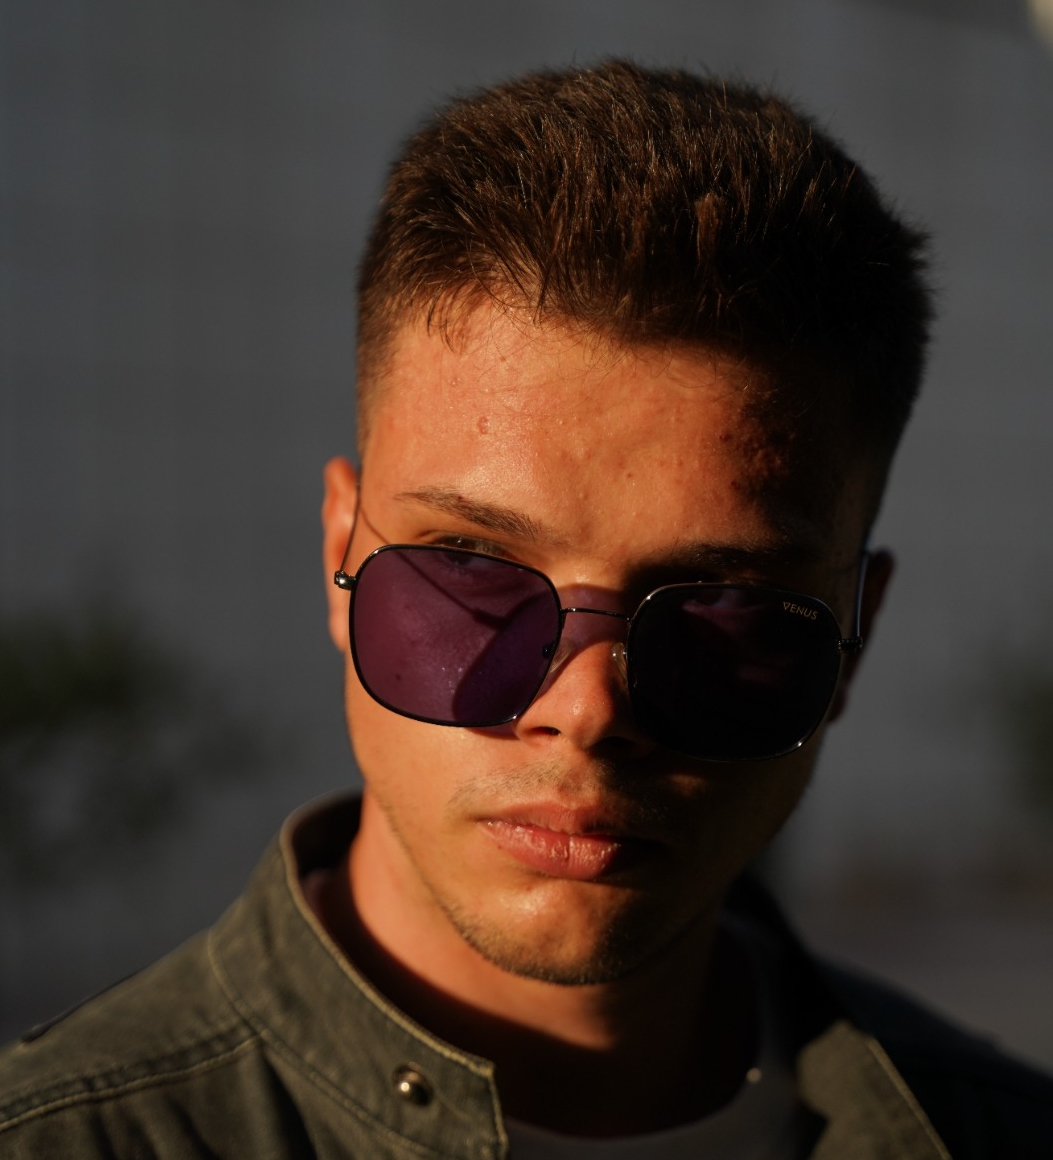
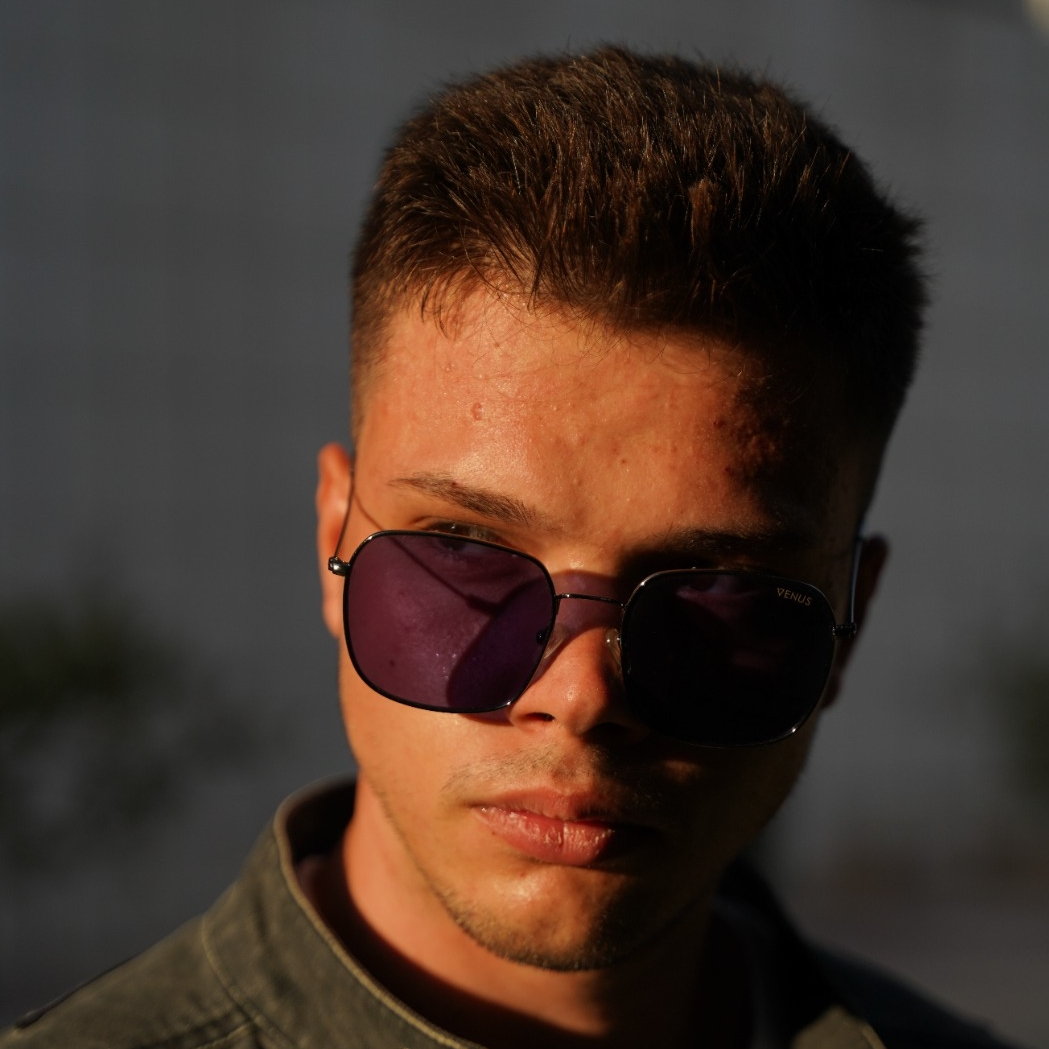
foto miguel arreglada

diff --git a/index.html b/index.html
@@ -75,7 +75,8 @@
                     <div class="col-md-6 col-lg-4 mb-5">
                         <div class="portfolio-item mx-auto" data-bs-toggle="modal" data-bs-target="#portfolioModal1">
                             <div class="portfolio-item-caption d-flex align-items-center justify-content-center h-100 w-100">
-                                <div class="portfolio-item-caption-content text-center text-white">A Way to Heaven</div>
+                                <div class="portfolio-item-caption-content text-center text-white">A Way to Heaven  </div>
+                                <a class="btn btn-xl btn-outline-light" href="https://locked-pocket-studio.itch.io/a-way-to-heaven"><i class="fab fa-itch-io"></i></a>
                             </div>
                             <img class="img-fluid" src="https://github.com/LockedPocketStudio/WEB_arte/blob/main/logo/Logo_juego.jpeg?raw=true" alt="..." width="500px" height="500px" />
                         </div>
@@ -123,7 +124,7 @@
                             <div class="portfolio-item-caption d-flex align-items-center justify-content-center h-100 w-100">
                                 <div class="portfolio-item-caption-content text-center text-white">LAURITA<i class="fas fa-plus fa-3x"></i></div>
                             </div>
-                            <img class="img-fluid" src="https://github.com/LockedPocketStudio/lockedpocketstudio.github.io/blob/main/assets/img/team/foto_laurita.jpg?raw=true" alt="..." width="500px" height="500px" />
+                            <img class="img-fluid" src="https://github.com/LockedPocketStudio/lockedpocketstudio.github.io/blob/main/assets/img/team/foto_laurita.jpg?raw=true" alt="..." width="350px" height="350px" />
                         </div>
                     </div>
 		<!-- MATEO-->
@@ -132,7 +133,7 @@
                             <div class="portfolio-item-caption d-flex align-items-center justify-content-center h-100 w-100">
                                 <div class="portfolio-item-caption-content text-center text-white">MATEO<i class="fas fa-plus fa-3x"></i></div>
                             </div>
-                            <img class="img-fluid" src="https://github.com/LockedPocketStudio/lockedpocketstudio.github.io/blob/main/assets/img/team/fotoMateoFinal.png?raw=true" alt="..." width="500px" height="500px" />
+                            <img class="img-fluid" src="https://github.com/LockedPocketStudio/lockedpocketstudio.github.io/blob/main/assets/img/team/fotoMateoFinal.jpg?raw=true" alt="..." width="350px" height="350px" />
                         </div>
                     </div>
 		<!-- MIGUEL-->
@@ -141,7 +142,7 @@
                             <div class="portfolio-item-caption d-flex align-items-center justify-content-center h-100 w-100">
                                 <div class="portfolio-item-caption-content text-center text-white">MIGUEL<i class="fas fa-plus fa-3x"></i></div>
                             </div>
-                            <img class="img-fluid" src="https://github.com/LockedPocketStudio/lockedpocketstudio.github.io/blob/main/assets/img/team/fotoMiguelFinal.png?raw=true" alt="..." width="500px" height="500px" />
+                            <img class="img-fluid" src="https://github.com/LockedPocketStudio/lockedpocketstudio.github.io/blob/main/assets/img/team/fotoMiguelFinal.jpg?raw=true" alt="..." width="350px" height="350px" />
                         </div>
                     </div>
 		<!-- PEDRO-->
@@ -150,7 +151,7 @@
                             <div class="portfolio-item-caption d-flex align-items-center justify-content-center h-100 w-100">
                                 <div class="portfolio-item-caption-content text-center text-white">PEDRO<i class="fas fa-plus fa-3x"></i></div>
                             </div>
-                            <img class="img-fluid" src="https://github.com/LockedPocketStudio/WEB_arte/blob/main/img_PruebasPortfolio.png?raw=true" alt="..." width="500px" height="500px" />
+                            <img class="img-fluid" src="https://github.com/LockedPocketStudio/lockedpocketstudio.github.io/blob/main/assets/img/team/fotoPedroFinal.jpg?raw=true" alt="..." width="350px" height="350px" />
                         </div>
                     </div>
 		<!-- LUCÍA-->
@@ -159,7 +160,7 @@
                             <div class="portfolio-item-caption d-flex align-items-center justify-content-center h-100 w-100">
                                 <div class="portfolio-item-caption-content text-center text-white">LUCÍA<i class="fas fa-plus fa-3x"></i></div>
                             </div>
-                            <img class="img-fluid" src="https://github.com/LockedPocketStudio/lockedpocketstudio.github.io/blob/main/assets/img/team/fotoLuciaFinal.png?raw=true" alt="..." width="400px" height="400px" />
+                            <img class="img-fluid" src="https://github.com/LockedPocketStudio/lockedpocketstudio.github.io/blob/main/assets/img/team/fotoLuciaFinal.jpg?raw=true" alt="..." width="350px" height="350px" />
                         </div>
                     </div>
                 </div>
@@ -193,199 +194,6 @@
         <!-- Copyright Section-->
         <div class="copyright py-4 text-center text-white">
             <div class="container"><small>Copyright &copy; Locked Pocket Studio 2022</small></div>
-        </div>
-        <!-- Portfolio Modals-->
-        <!-- Portfolio Modal 1-->
-        <div class="portfolio-modal modal fade" id="portfolioModal1" tabindex="-1" aria-labelledby="portfolioModal1" aria-hidden="true">
-            <div class="modal-dialog modal-xl">
-                <div class="modal-content">
-                    <div class="modal-header border-0"><button class="btn-close" type="button" data-bs-dismiss="modal" aria-label="Close"></button></div>
-                    <div class="modal-body text-center pb-5">
-                        <div class="container">
-                            <div class="row justify-content-center">
-                                <div class="col-lg-8">
-                                    <!-- Portfolio Modal - Title-->
-                                    <h2 class="portfolio-modal-title text-secondary text-uppercase mb-0">Log Cabin</h2>
-                                    <!-- Icon Divider-->
-                                    <div class="divider-custom">
-                                        <div class="divider-custom-line"></div>
-                                        <div class="divider-custom-icon"><i class="fas fa-star"></i></div>
-                                        <div class="divider-custom-line"></div>
-                                    </div>
-                                    <!-- Portfolio Modal - Image-->
-                                    <img class="img-fluid rounded mb-5" src="assets/img/portfolio/cabin.png" alt="..." />
-                                    <!-- Portfolio Modal - Text-->
-                                    <p class="mb-4">Lorem ipsum dolor sit amet, consectetur adipisicing elit. Mollitia neque assumenda ipsam nihil, molestias magnam, recusandae quos quis inventore quisquam velit asperiores, vitae? Reprehenderit soluta, eos quod consequuntur itaque. Nam.</p>
-                                    <button class="btn btn-primary" data-bs-dismiss="modal">
-                                        <i class="fas fa-xmark fa-fw"></i>
-                                        Close Window
-                                    </button>
-                                </div>
-                            </div>
-                        </div>
-                    </div>
-                </div>
-            </div>
-        </div>
-        <!-- Portfolio Modal 2-->
-        <div class="portfolio-modal modal fade" id="portfolioModal2" tabindex="-1" aria-labelledby="portfolioModal2" aria-hidden="true">
-            <div class="modal-dialog modal-xl">
-                <div class="modal-content">
-                    <div class="modal-header border-0"><button class="btn-close" type="button" data-bs-dismiss="modal" aria-label="Close"></button></div>
-                    <div class="modal-body text-center pb-5">
-                        <div class="container">
-                            <div class="row justify-content-center">
-                                <div class="col-lg-8">
-                                    <!-- Portfolio Modal - Title-->
-                                    <h2 class="portfolio-modal-title text-secondary text-uppercase mb-0">Tasty Cake</h2>
-                                    <!-- Icon Divider-->
-                                    <div class="divider-custom">
-                                        <div class="divider-custom-line"></div>
-                                        <div class="divider-custom-icon"><i class="fas fa-star"></i></div>
-                                        <div class="divider-custom-line"></div>
-                                    </div>
-                                    <!-- Portfolio Modal - Image-->
-                                    <img class="img-fluid rounded mb-5" src="assets/img/portfolio/cake.png" alt="..." />
-                                    <!-- Portfolio Modal - Text-->
-                                    <p class="mb-4">Lorem ipsum dolor sit amet, consectetur adipisicing elit. Mollitia neque assumenda ipsam nihil, molestias magnam, recusandae quos quis inventore quisquam velit asperiores, vitae? Reprehenderit soluta, eos quod consequuntur itaque. Nam.</p>
-                                    <button class="btn btn-primary" data-bs-dismiss="modal">
-                                        <i class="fas fa-xmark fa-fw"></i>
-                                        Close Window
-                                    </button>
-                                </div>
-                            </div>
-                        </div>
-                    </div>
-                </div>
-            </div>
-        </div>
-        <!-- Portfolio Modal 3-->
-        <div class="portfolio-modal modal fade" id="portfolioModal3" tabindex="-1" aria-labelledby="portfolioModal3" aria-hidden="true">
-            <div class="modal-dialog modal-xl">
-                <div class="modal-content">
-                    <div class="modal-header border-0"><button class="btn-close" type="button" data-bs-dismiss="modal" aria-label="Close"></button></div>
-                    <div class="modal-body text-center pb-5">
-                        <div class="container">
-                            <div class="row justify-content-center">
-                                <div class="col-lg-8">
-                                    <!-- Portfolio Modal - Title-->
-                                    <h2 class="portfolio-modal-title text-secondary text-uppercase mb-0">Circus Tent</h2>
-                                    <!-- Icon Divider-->
-                                    <div class="divider-custom">
-                                        <div class="divider-custom-line"></div>
-                                        <div class="divider-custom-icon"><i class="fas fa-star"></i></div>
-                                        <div class="divider-custom-line"></div>
-                                    </div>
-                                    <!-- Portfolio Modal - Image-->
-                                    <img class="img-fluid rounded mb-5" src="assets/img/portfolio/circus.png" alt="..." />
-                                    <!-- Portfolio Modal - Text-->
-                                    <p class="mb-4">Lorem ipsum dolor sit amet, consectetur adipisicing elit. Mollitia neque assumenda ipsam nihil, molestias magnam, recusandae quos quis inventore quisquam velit asperiores, vitae? Reprehenderit soluta, eos quod consequuntur itaque. Nam.</p>
-                                    <button class="btn btn-primary" data-bs-dismiss="modal">
-                                        <i class="fas fa-xmark fa-fw"></i>
-                                        Close Window
-                                    </button>
-                                </div>
-                            </div>
-                        </div>
-                    </div>
-                </div>
-            </div>
-        </div>
-        <!-- Portfolio Modal 4-->
-        <div class="portfolio-modal modal fade" id="portfolioModal4" tabindex="-1" aria-labelledby="portfolioModal4" aria-hidden="true">
-            <div class="modal-dialog modal-xl">
-                <div class="modal-content">
-                    <div class="modal-header border-0"><button class="btn-close" type="button" data-bs-dismiss="modal" aria-label="Close"></button></div>
-                    <div class="modal-body text-center pb-5">
-                        <div class="container">
-                            <div class="row justify-content-center">
-                                <div class="col-lg-8">
-                                    <!-- Portfolio Modal - Title-->
-                                    <h2 class="portfolio-modal-title text-secondary text-uppercase mb-0">Controller</h2>
-                                    <!-- Icon Divider-->
-                                    <div class="divider-custom">
-                                        <div class="divider-custom-line"></div>
-                                        <div class="divider-custom-icon"><i class="fas fa-star"></i></div>
-                                        <div class="divider-custom-line"></div>
-                                    </div>
-                                    <!-- Portfolio Modal - Image-->
-                                    <img class="img-fluid rounded mb-5" src="assets/img/portfolio/game.png" alt="..." />
-                                    <!-- Portfolio Modal - Text-->
-                                    <p class="mb-4">Lorem ipsum dolor sit amet, consectetur adipisicing elit. Mollitia neque assumenda ipsam nihil, molestias magnam, recusandae quos quis inventore quisquam velit asperiores, vitae? Reprehenderit soluta, eos quod consequuntur itaque. Nam.</p>
-                                    <button class="btn btn-primary" data-bs-dismiss="modal">
-                                        <i class="fas fa-xmark fa-fw"></i>
-                                        Close Window
-                                    </button>
-                                </div>
-                            </div>
-                        </div>
-                    </div>
-                </div>
-            </div>
-        </div>
-        <!-- Portfolio Modal 5-->
-        <div class="portfolio-modal modal fade" id="portfolioModal5" tabindex="-1" aria-labelledby="portfolioModal5" aria-hidden="true">
-            <div class="modal-dialog modal-xl">
-                <div class="modal-content">
-                    <div class="modal-header border-0"><button class="btn-close" type="button" data-bs-dismiss="modal" aria-label="Close"></button></div>
-                    <div class="modal-body text-center pb-5">
-                        <div class="container">
-                            <div class="row justify-content-center">
-                                <div class="col-lg-8">
-                                    <!-- Portfolio Modal - Title-->
-                                    <h2 class="portfolio-modal-title text-secondary text-uppercase mb-0">Locked Safe</h2>
-                                    <!-- Icon Divider-->
-                                    <div class="divider-custom">
-                                        <div class="divider-custom-line"></div>
-                                        <div class="divider-custom-icon"><i class="fas fa-star"></i></div>
-                                        <div class="divider-custom-line"></div>
-                                    </div>
-                                    <!-- Portfolio Modal - Image-->
-                                    <img class="img-fluid rounded mb-5" src="assets/img/portfolio/safe.png" alt="..." />
-                                    <!-- Portfolio Modal - Text-->
-                                    <p class="mb-4">Lorem ipsum dolor sit amet, consectetur adipisicing elit. Mollitia neque assumenda ipsam nihil, molestias magnam, recusandae quos quis inventore quisquam velit asperiores, vitae? Reprehenderit soluta, eos quod consequuntur itaque. Nam.</p>
-                                    <button class="btn btn-primary" data-bs-dismiss="modal">
-                                        <i class="fas fa-xmark fa-fw"></i>
-                                        Close Window
-                                    </button>
-                                </div>
-                            </div>
-                        </div>
-                    </div>
-                </div>
-            </div>
-        </div>
-        <!-- Portfolio Modal 6-->
-        <div class="portfolio-modal modal fade" id="portfolioModal6" tabindex="-1" aria-labelledby="portfolioModal6" aria-hidden="true">
-            <div class="modal-dialog modal-xl">
-                <div class="modal-content">
-                    <div class="modal-header border-0"><button class="btn-close" type="button" data-bs-dismiss="modal" aria-label="Close"></button></div>
-                    <div class="modal-body text-center pb-5">
-                        <div class="container">
-                            <div class="row justify-content-center">
-                                <div class="col-lg-8">
-                                    <!-- Portfolio Modal - Title-->
-                                    <h2 class="portfolio-modal-title text-secondary text-uppercase mb-0">Submarine</h2>
-                                    <!-- Icon Divider-->
-                                    <div class="divider-custom">
-                                        <div class="divider-custom-line"></div>
-                                        <div class="divider-custom-icon"><i class="fas fa-star"></i></div>
-                                        <div class="divider-custom-line"></div>
-                                    </div>
-                                    <!-- Portfolio Modal - Image-->
-                                    <img class="img-fluid rounded mb-5" src="assets/img/portfolio/submarine.png" alt="..." />
-                                    <!-- Portfolio Modal - Text-->
-                                    <p class="mb-4">Lorem ipsum dolor sit amet, consectetur adipisicing elit. Mollitia neque assumenda ipsam nihil, molestias magnam, recusandae quos quis inventore quisquam velit asperiores, vitae? Reprehenderit soluta, eos quod consequuntur itaque. Nam.</p>
-                                    <button class="btn btn-primary" data-bs-dismiss="modal">
-                                        <i class="fas fa-xmark fa-fw"></i>
-                                        Close Window
-                                    </button>
-                                </div>
-                            </div>
-                        </div>
-                    </div>
-                </div>
-            </div>
         </div>
         <!-- Bootstrap core JS-->
         <script src="https://cdn.jsdelivr.net/npm/bootstrap@5.1.3/dist/js/bootstrap.bundle.min.js"></script>
